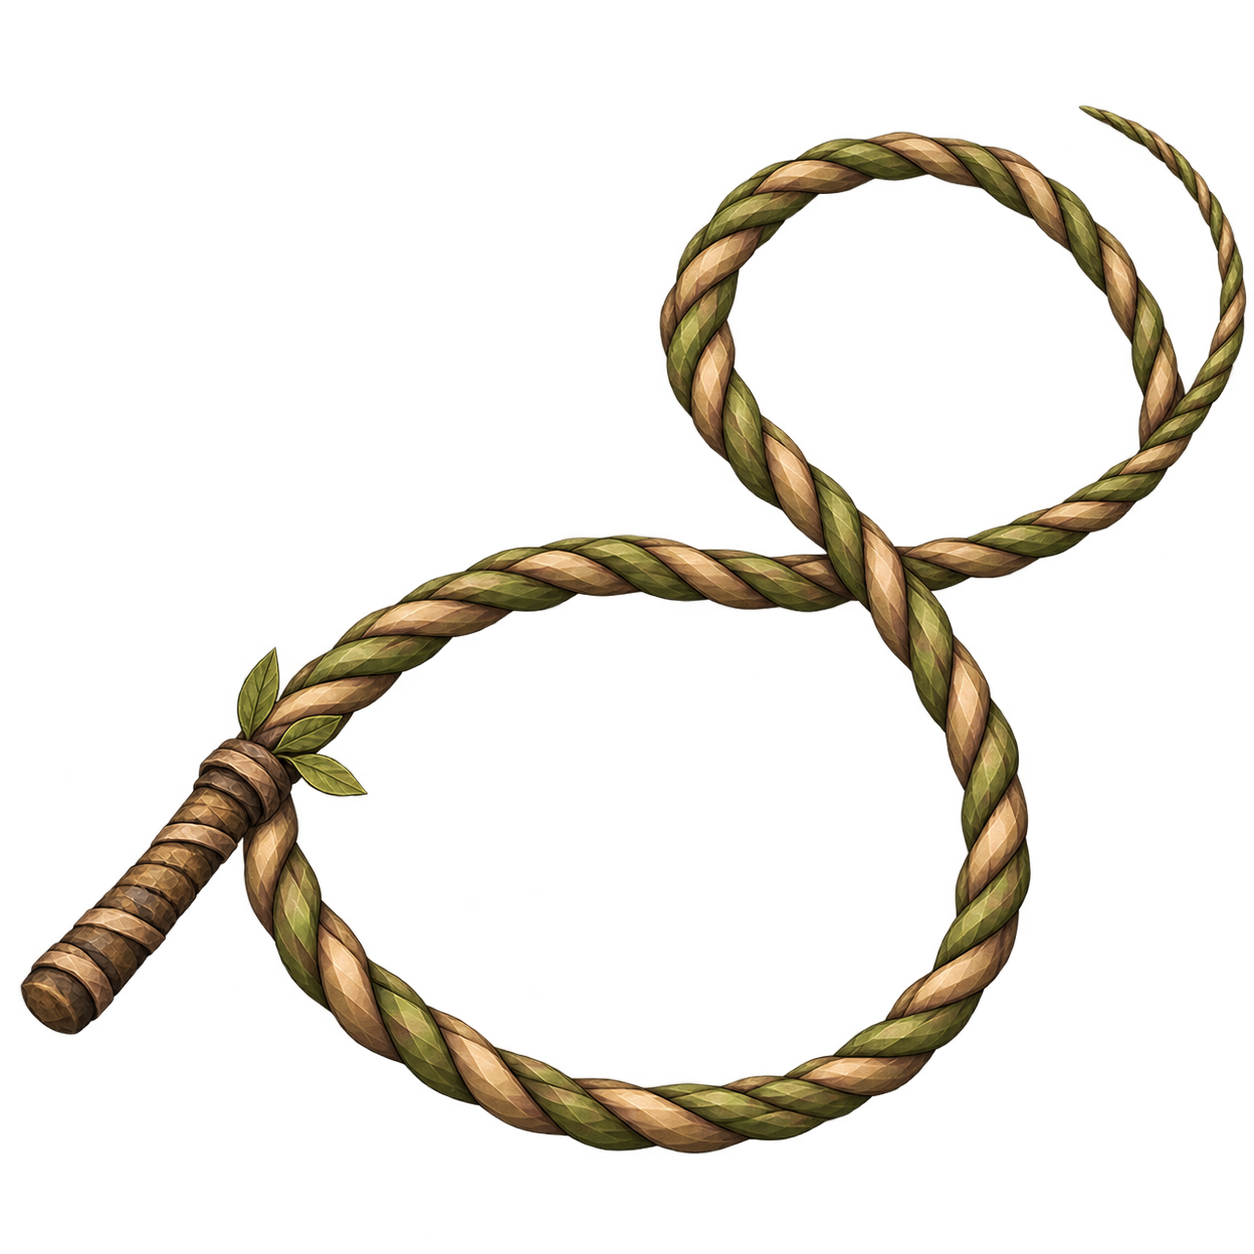
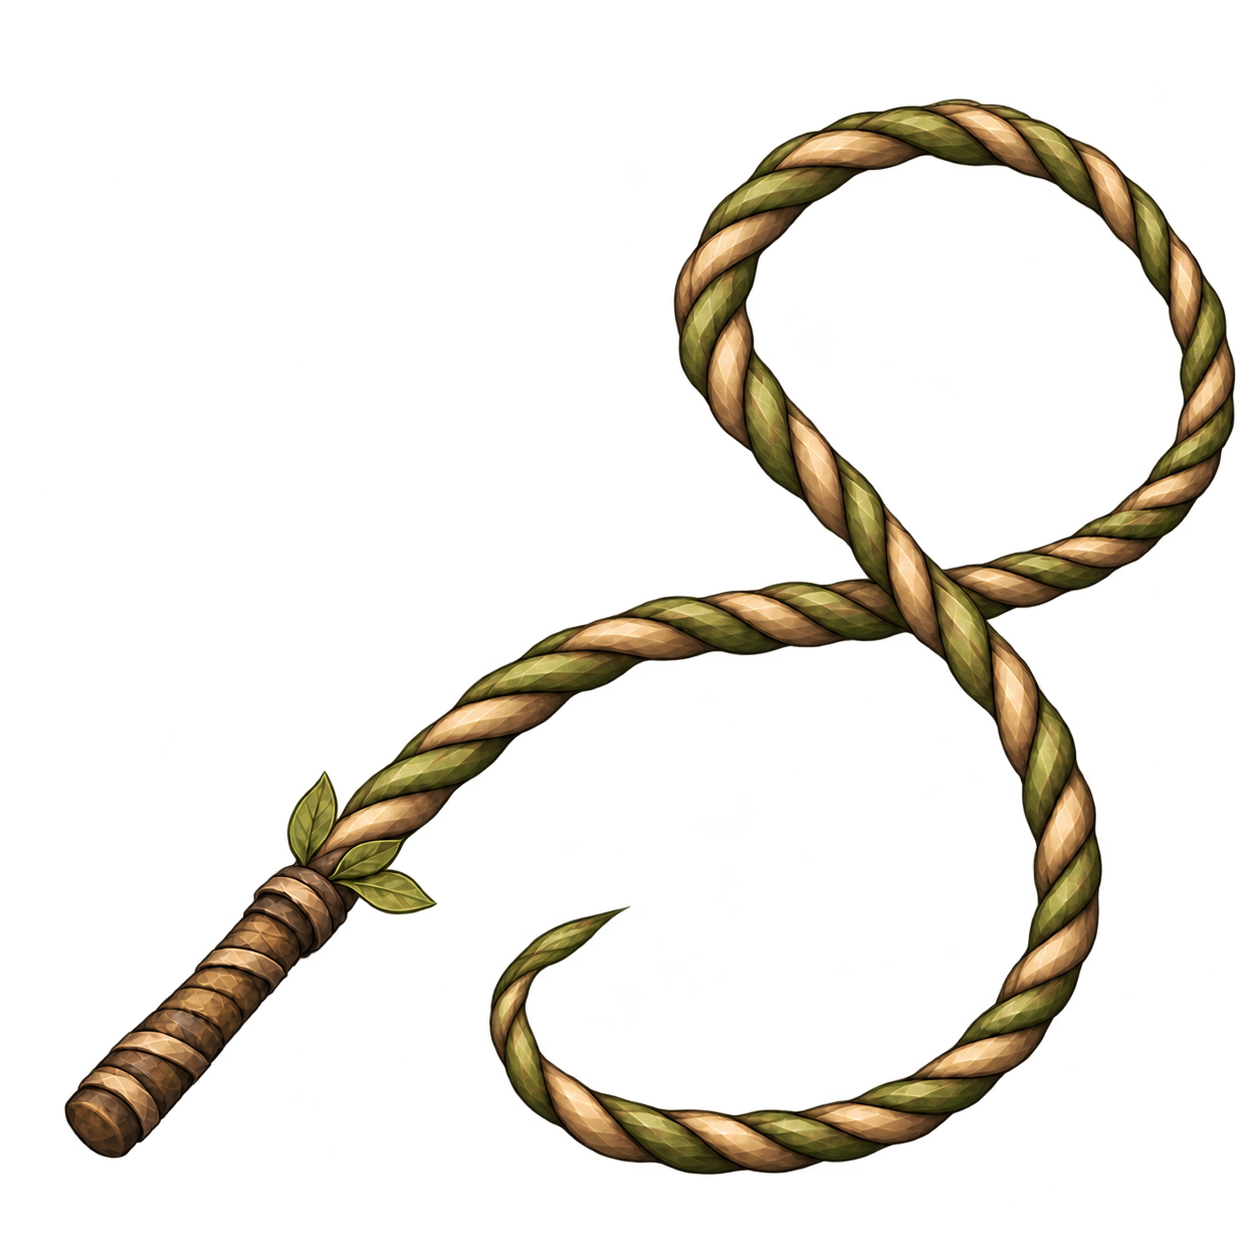
Fix figure-eight whip thumbnail into one continuous open strand

Changed region(s): [[0.0, 0.0622, 0.9952, 0.933]]

diff --git a/public/encounters/whip-variants-20261024/index.html b/public/encounters/whip-variants-20261024/index.html
@@ -1,5 +1,5 @@
 <!doctype html><html lang="ko"><meta charset="utf-8"><meta name="viewport" content="width=device-width,initial-scale=1"><title>Stillness · 채찍 섬네일 추가 시안</title><style>*{box-sizing:border-box}body{margin:0;background:#191813;color:#d5c9ad;font:16px/1.6 Georgia,serif}main{max-width:1100px;padding:28px 18px 50px;margin:auto}h1{font-size:28px;margin:0 0 8px}h2{font-size:19px;margin:0 0 6px}p{margin:5px 0 18px}a{color:#ddc18a}.grid{display:grid;grid-template-columns:repeat(3,1fr);gap:16px}.box{border:1px solid #6f6146;background:#242118;padding:18px}.hero{width:100%;aspect-ratio:1;object-fit:contain;background:#171610}.small{color:#a99e86;font-size:14px}.samples{display:flex;gap:20px;align-items:end;margin:18px 0}.samples img{background:#171610;object-fit:contain}.sound{border:1px solid #6f6146;padding:18px;margin-top:24px}audio{width:100%;max-width:420px;display:block;margin:12px 0}@media(max-width:650px){.grid{grid-template-columns:1fr}.box{padding:16px}.hero{max-height:400px}h1{font-size:25px}}</style><main><p class="small">STILLNESS · 드루이드의 채찍</p><h1>섬네일 추가 시안</h1><p>기존 1안에 더해, 말아 놓은 형태가 다른 두 안을 만들었습니다.</p><div class="grid">
 <article class="box"><h2>1 · 넓은 원형</h2><p class="small">기존 시안 · 큰 빈 공간과 가벼운 윤곽</p><img class="hero" src="variant1.webp" alt="기존 넓은 원형 채찍"><div class="samples"><img width="64" height="64" src="variant1.webp" alt="64픽셀"><img width="96" height="96" src="variant1.webp" alt="96픽셀"></div><p class="small">64px / 96px</p></article>
 <article class="box"><h2>2 · 촘촘한 코일</h2><p class="small">차곡차곡 말린 형태 · 오른쪽 위 손잡이</p><a href="variant2-original.png"><img class="hero" src="variant2.webp" alt="촘촘한 나선형 채찍"></a><div class="samples"><img width="64" height="64" src="variant2.webp" alt="64픽셀"><img width="96" height="96" src="variant2.webp" alt="96픽셀"></div><p class="small">64px / 96px · <a href="variant2-original.png">원본 보기</a></p></article>
-<article class="box"><h2>3 · 느슨한 8자</h2><p class="small">길게 흐르는 형태 · 왼쪽 아래 손잡이</p><a href="variant3-original.png"><img class="hero" src="variant3.webp" alt="느슨한 8자로 말린 채찍"></a><div class="samples"><img width="64" height="64" src="variant3.webp" alt="64픽셀"><img width="96" height="96" src="variant3.webp" alt="96픽셀"></div><p class="small">64px / 96px · <a href="variant3-original.png">원본 보기</a></p></article></div>
+<article class="box"><h2>3 · 느슨한 8자 · 수정</h2><p class="small">한 줄로 이어지는 교차 · 안쪽으로 끝나는 꼬리</p><a href="variant3-v2-original.png"><img class="hero" src="variant3-v2.webp" alt="느슨한 8자로 말린 채찍"></a><div class="samples"><img width="64" height="64" src="variant3-v2.webp" alt="64픽셀"><img width="96" height="96" src="variant3-v2.webp" alt="96픽셀"></div><p class="small">64px / 96px · <a href="variant3-v2-original.png">원본 보기</a></p></article></div>
 <section class="sound"><h2>채찍 소리 · A안 확정</h2><p>선택하신 A안을 작업본의 몸·옷 타격음으로 반영했습니다.</p><audio controls preload="none" src="../whip-sound-20261024/audio/A-three.mp3"></audio><p class="small">“Whip” — Mike Koenig, <a href="https://soundbible.com/1150-Whip.html">SoundBible</a> · <a href="https://creativecommons.org/licenses/by/3.0/">CC BY 3.0</a>. 일부 발췌·페이드·음량 조정·MP3 변환. 위 재생은 비교용으로 같은 소리를 세 번 이어 붙인 것입니다.</p></section></main></html>

diff --git a/docs/audio/whip_20261024/followup/figure8-correction/README.md b/docs/audio/whip_20261024/followup/figure8-correction/README.md
@@ -1,0 +1,16 @@
+# 8자 채찍 섬네일 연결 수정
+
+사용자 지적: 꼬임이 이상하고 줄이 이어지지 않는다.
+
+이전3안은 손잡이 아래/위 두 곳으로 줄이 붙고, 위 고리 끝에도 잘못된 연결이 있어 한 가닥의 채찍으로 읽히지 않았다. 이미지 생성 도구로 수정했다. 첫 생성은 아래 고리의 잘못된 연결과 떨어진 끝 조각이 남아 거절하고, 두 번째 수정에서 아래 고리를 열어 한 가닥으로 만들었다.
+
+최종 경로: 손잡이의 위쪽 출구 하나 → 가운데 아래로 통과 → 위 고리 → 가운데 위로 통과 → 아래 곡선 → 고리 안쪽의 붙어 있는 가느다란 끝. 중앙 교차 한 번, 손잡이 아래와 줄 끝 사이에 명확한 빈 공간. 마지막 검수는 원본 및 64/96px 실제 페이지 촬영을 눈으로 확인한 것이며 수학적 끈 복원 검사라고 주장하지 않는다.
+
+원본 `art/weapons/druid_whip_variants_20261024/variant3-original.png`, 축소본 `variant3.webp`. 이전은 `variant3-v1-original.png`/`variant3-v1.webp`로 보존했다. 코드 작업은 크기/포맷 변환뿐이며 창작 편집은 이미지 생성 도구를 사용했다. 공개 페이지는 캐시 혼동을 줄이기 위해 `variant3-v2-original.png`/`variant3-v2.webp`를 참조한다. 기존 공개 그림 경로는 이력으로 남긴다.
+
+- `gallery.mjs`: 320/390/844/1280px 그림 로딩/가로 넘침/오류, 새 원본 다운로드 확인.
+- `variant3-card.png`: 수정3안 실제 비교 페이지 촬영. 별도 섬네일 일러스트이며 게임 3D 모델 촬영이 아니다.
+- `inspection.json`: 원본/WebP 해시와 육안 확인 항목.
+- 1/2안, 게임에 연결된 기존1안, 음원/캐릭터/전투 변경 없음. 음성 재배분은 아직 제안이다. 새3안 사용자 미감 확정/우화 전달은 아직 없다.
+
+공개 완료 여부는 `publication.json` 확인. 새 이미지/정적 페이지 작업이므로 물리 전투 검사를 반복하지 않았다.
